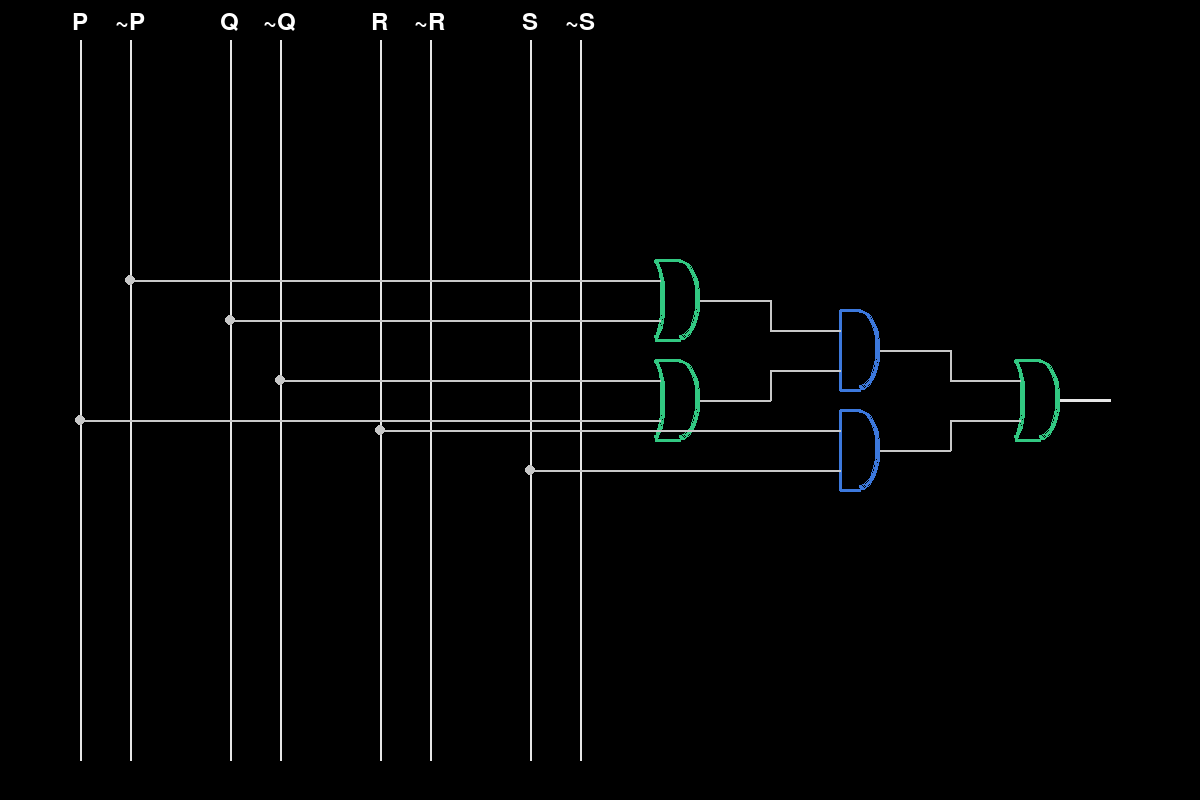
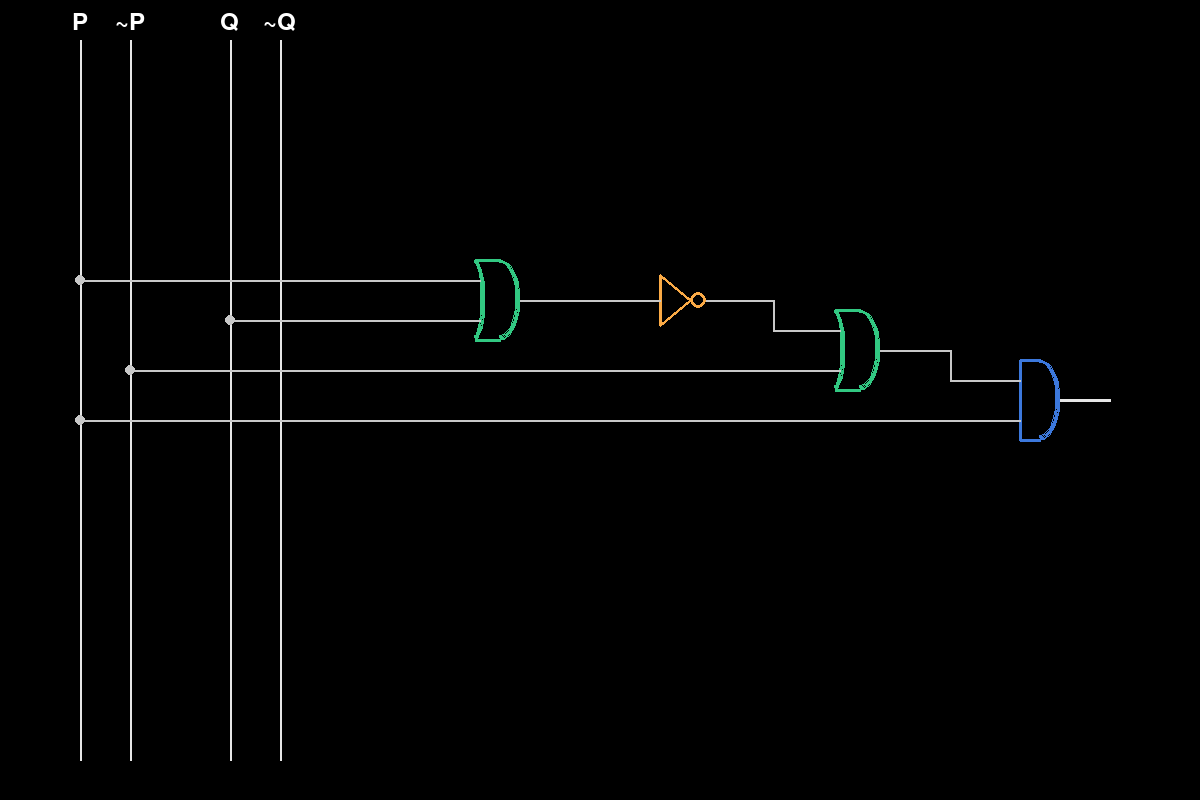
larissa é foda demaais agora aparece a expressão lógica proposicional na parte de circuito

diff --git a/LoZGates 1.0.1/FrontEnd/interface.py b/LoZGates 1.0.1/FrontEnd/interface.py
@@ -126,6 +126,9 @@ def inicializar_interface():
         caminho_entrada = os.path.join(ASSETS_PATH, "entrada.txt")
 
         expressao = entrada.get().strip().upper().replace(" ", "")
+
+        label_circuito_expressao.configure(text=f"Expressão Lógica Proposicional: {expressao}")
+        
         with open(caminho_entrada, "w", encoding="utf-8") as file: 
             file.write(expressao) 
 
@@ -446,6 +449,14 @@ def inicializar_interface():
     scroll_frame1 = ctk.CTkScrollableFrame(aba_circuito, fg_color="#000057")
     scroll_frame1.pack(expand=True, fill="both")
 
+    label_circuito_expressao = ctk.CTkLabel(
+        scroll_frame1,
+        font=("Arial", 16, "bold"),
+        text_color="cyan",
+        text=""  
+    )
+    label_circuito_expressao.pack(pady=10)
+
     imagem_circuito = ctk.CTkLabel(scroll_frame1, text="")
     imagem_circuito.pack(pady=10)
 
@@ -461,7 +472,7 @@ def inicializar_interface():
                 img = Image.open(caminho_img)
                 img.save(caminho_salvar)
         else:
-            popup_erro("Imagem não encontradaaa.")
+            popup_erro("Imagem não encontrada.")
 
     botao_salvar = ctk.CTkButton(
         scroll_frame1,
